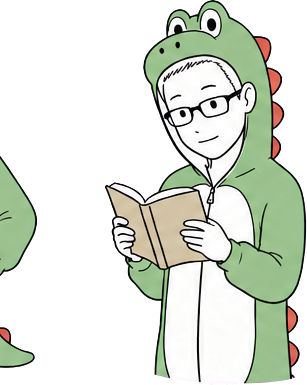
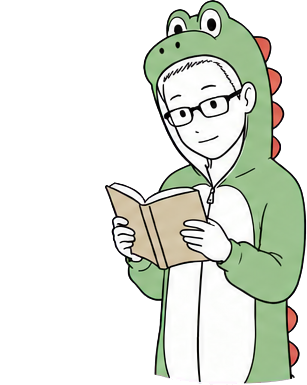
Add files via upload

Changed region(s): [[0.0, 0.4052, 0.1466, 0.7169], [0.0, 0.8416, 0.1173, 0.9662]]

diff --git a/src/medicalColumns.ts b/src/medicalColumns.ts
@@ -20,6 +20,10 @@ export type MedicalColumn = {
   poseImage: string;
   sections: MedicalColumnSection[];
   takeaway: string;
+  sources?: {
+    label: string;
+    url: string;
+  }[];
 };
 
 export const medicalColumns: MedicalColumn[] = [
@@ -145,6 +149,63 @@ export const medicalColumns: MedicalColumn[] = [
       },
     ],
     takeaway: "評定は大切な入口。でも合格を決めるのは、評定に加えて積み上げた入試学力と志望の具体性。",
+  },
+  {
+    slug: "limited-science-requirements",
+    grade: "高1",
+    category: "科目選択・出願条件",
+    title: "生物選択では受けられない？ 医学部の限定的な理科条件",
+    lead: "「理科は2科目選択」と思っていたら、志望大学は物理・化学指定だった。科目選択前に知っておきたい出願・受験条件を整理します。",
+    readTime: "7分",
+    yoshi: "“理科2科目”のあとに、小さい字で指定がある。",
+    poseImage: "yoshi-thinking.png",
+    sections: [
+      {
+        heading: "医学部の理科2科目は、自由選択とは限らない",
+        paragraphs: [
+          "国公立医学科の多くは理科2科目を求めますが、物理・化学・生物から自由に2科目を選べる大学だけではありません。大学や選抜方式によっては、物理と化学が指定されています。",
+          "共通テストで利用できる科目と、個別学力検査で受験する科目が異なる場合もあります。「生物を選んだから医学部に行けない」のではなく、候補大学の一部が選択肢から外れる可能性がある、という理解が正確です。",
+        ],
+      },
+      {
+        heading: "2026年度、前期で物理・化学が指定された医学科",
+        paragraphs: [
+          "以下は2026年度一般選抜・前期日程の大学公式募集要項を確認した例です。いずれも個別学力検査で物理・化学が指定され、生物では代替できません。",
+        ],
+        table: {
+          headers: ["大学", "共通テスト理科", "個別試験理科", "注意点"],
+          rows: [
+            ["群馬大学", "募集要項の指定科目を確認", "物理・化学", "個別テストは物理・化学"],
+            ["金沢大学", "物理・化学", "物理・化学", "共通テスト・個別とも組合せ指定"],
+            ["九州大学", "募集要項の指定科目を確認", "物理・化学", "医学科は2科目必須"],
+            ["名古屋市立大学", "物理・化学", "物理・化学", "一般前期の医学科で指定"],
+          ],
+          note: "2026年度一般選抜・前期日程を基準に整理。年度・推薦等の方式によって条件が変わるため、出願時は最新の公式募集要項を確認。",
+        },
+      },
+      {
+        heading: "同じ大学でも、一般・推薦・地域枠で条件が変わる",
+        paragraphs: [
+          "大学名だけで判断せず、一般前期、後期、学校推薦型、地域枠など、実際に受ける選抜方式の科目表を確認する必要があります。",
+          "確認するときは、共通テストの利用科目、個別試験の出題科目、科目の組合せ指定を別々に見ます。「理科2」とだけメモすると、自由選択なのか指定なのかが後から分からなくなります。",
+        ],
+        points: ["共通テスト：何を受験・利用するか", "個別試験：何が出題されるか", "組合せ：自由選択か物理＋化学指定か", "方式：一般・推薦・地域枠で違わないか"],
+      },
+      {
+        heading: "では、医学部志望は全員物理を選ぶべき？",
+        paragraphs: [
+          "物理を選べば候補校を広く保ちやすい面はあります。しかし、物理が自動的に高得点になるわけではありません。生物で高い得点力を作り、生物選択が可能な大学を選ぶ戦略も成立します。",
+          "大切なのは、科目を決める前に候補校を5〜10校ほど挙げ、条件を一覧にすることです。受験可能校の広さ、本人の適性、学校の進度、完成までの時間を合わせて判断します。",
+        ],
+      },
+    ],
+    takeaway: "物理を選ばないと医学部に行けないわけではない。ただし物理・化学指定の医学科があるため、科目選択前に候補校の条件を一覧化しよう。",
+    sources: [
+      { label: "群馬大学 2026年度一般選抜学生募集要項", url: "https://www.gunma-u.ac.jp/wp-content/uploads/2025/10/2026ippan2.pdf" },
+      { label: "金沢大学 2026年度一般選抜学生募集要項", url: "https://www.kanazawa-u.ac.jp/wp/wp-content/uploads/2025/11/R8_ippan_bosyuyoko.pdf" },
+      { label: "九州大学 2026年度一般選抜学生募集要項", url: "https://www.kyushu-u.ac.jp/f/63981/R8_ippanboshuyoko.pdf" },
+      { label: "名古屋市立大学 2026年度入学者選抜要項", url: "https://www.nagoya-cu.ac.jp/media/R8senbatsuyoko_R9.pdf" },
+    ],
   },
   {
     slug: "medical-careers",

diff --git a/src/globals.css b/src/globals.css
@@ -261,6 +261,12 @@ footer img{width:105px}
 .column-data-table th{color:#fff;background:var(--navy);font-weight:900}
 .column-data-table td:first-child{color:var(--navy);background:#f3f1e9;font-weight:900}
 .column-data-table small{display:block;margin-top:7px;color:#858b90;font-size:8px;line-height:1.6}
+.column-sources{margin-top:18px;padding:16px 18px;background:#f3f1e9;border-left:3px solid var(--blue)}
+.column-sources>b{display:block;margin-bottom:8px;color:var(--navy);font-size:11px}
+.column-sources>div{display:grid;gap:5px}
+.column-sources a{color:var(--blue);font-size:9px;font-weight:800;line-height:1.6}
+.column-sources a:hover{text-decoration:underline}
+.column-sources a span{margin-left:3px}
 .column-takeaway{margin-top:25px;padding:18px 20px;display:grid;grid-template-columns:45px 1fr;gap:13px;align-items:start;color:#fff;background:var(--navy)}
 .column-takeaway span{padding-top:2px;color:#f7d669;font-size:10px;font-weight:900;letter-spacing:.1em}
 .column-takeaway p{margin:0;font-size:12px;font-weight:800;line-height:1.8}

diff --git a/src/App.tsx b/src/App.tsx
@@ -634,6 +634,18 @@ export default function Home() {
               ))}
             </div>
             <div className="column-takeaway"><span>結論</span><p>{selectedColumn.takeaway}</p></div>
+            {selectedColumn.sources && (
+              <div className="column-sources">
+                <b>大学公式の確認資料</b>
+                <div>
+                  {selectedColumn.sources.map((source) => (
+                    <a key={source.url} href={source.url} target="_blank" rel="noreferrer">
+                      {source.label} <span>↗</span>
+                    </a>
+                  ))}
+                </div>
+              </div>
+            )}
             <p className="column-disclaimer">※ 入試科目・配点・日程は変更される場合があります。出願時は必ず各大学の最新募集要項を確認してください。</p>
             <button
               className="back-to-top"
